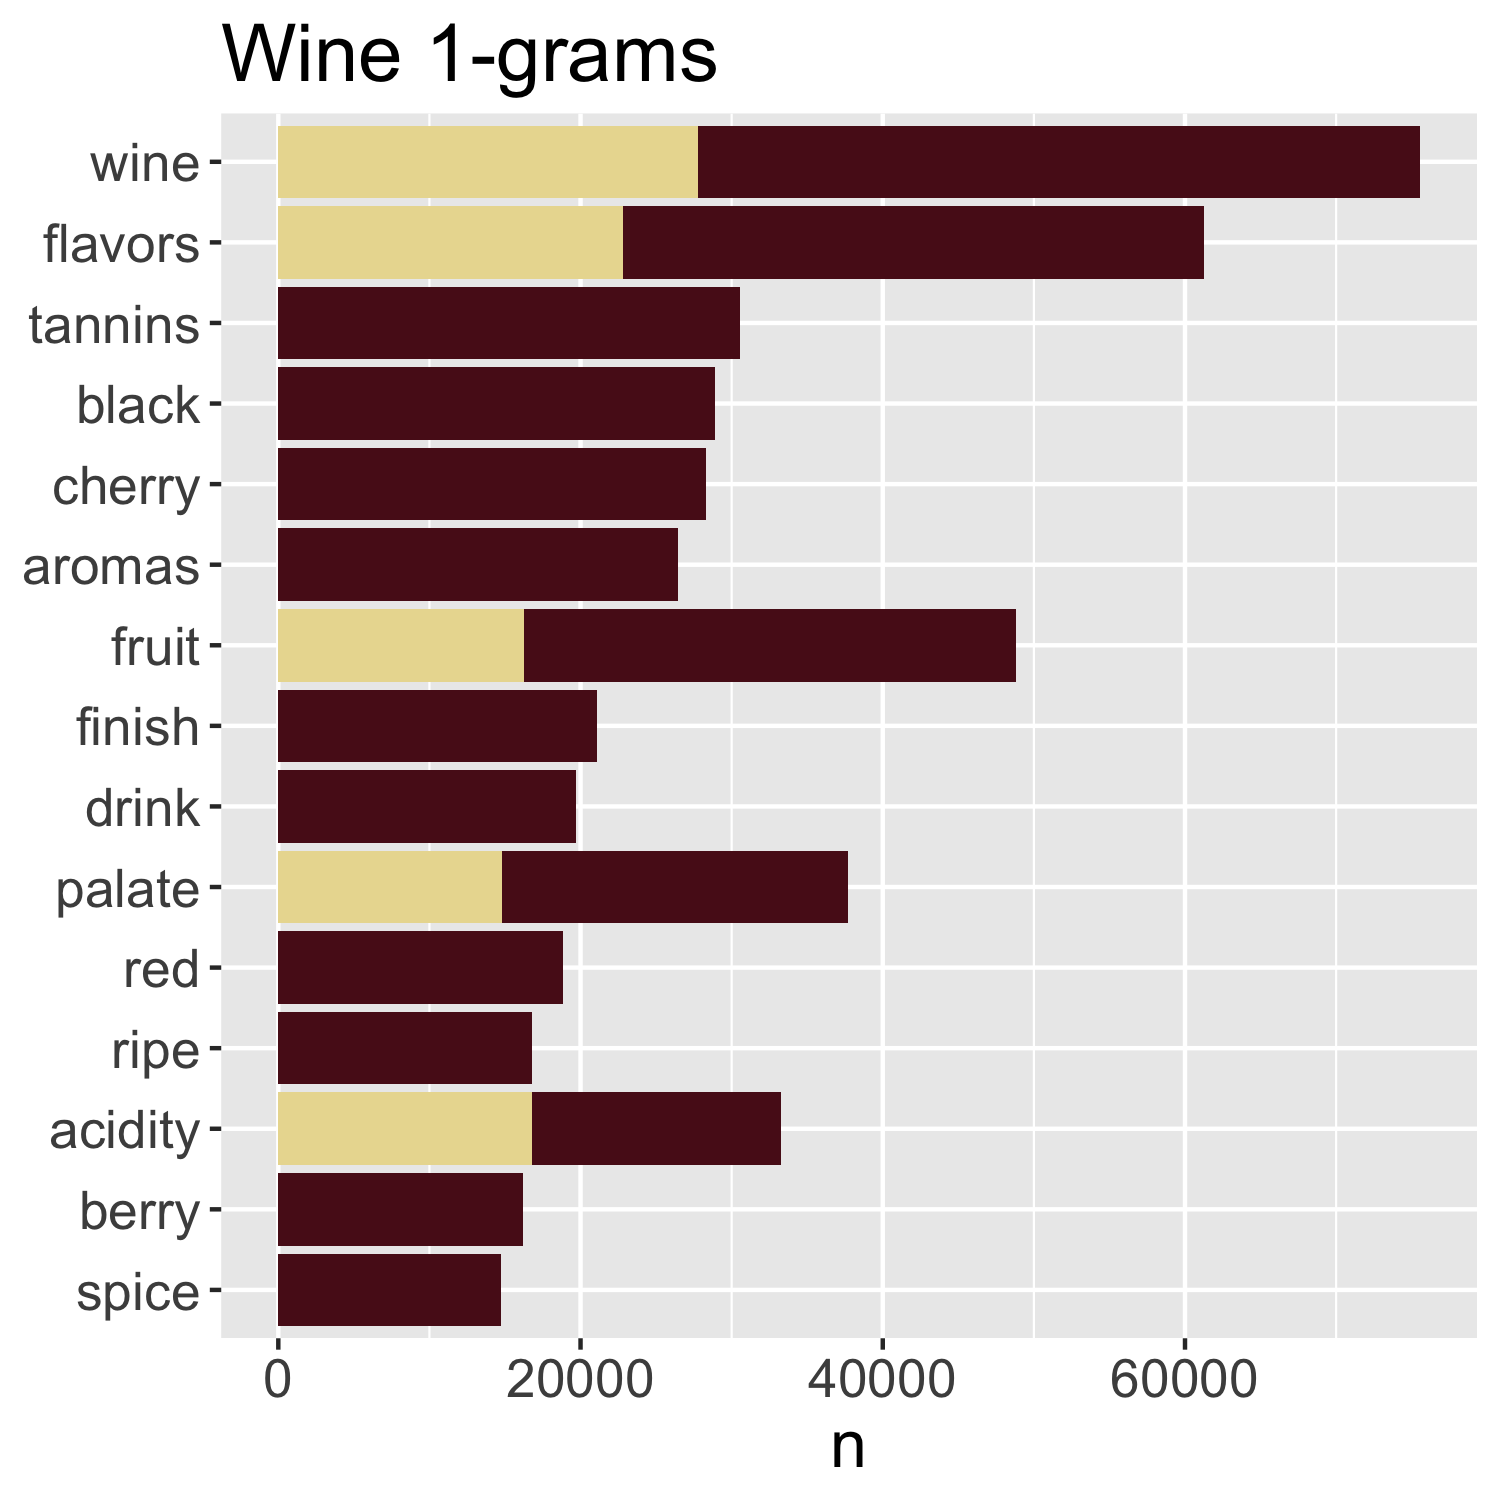
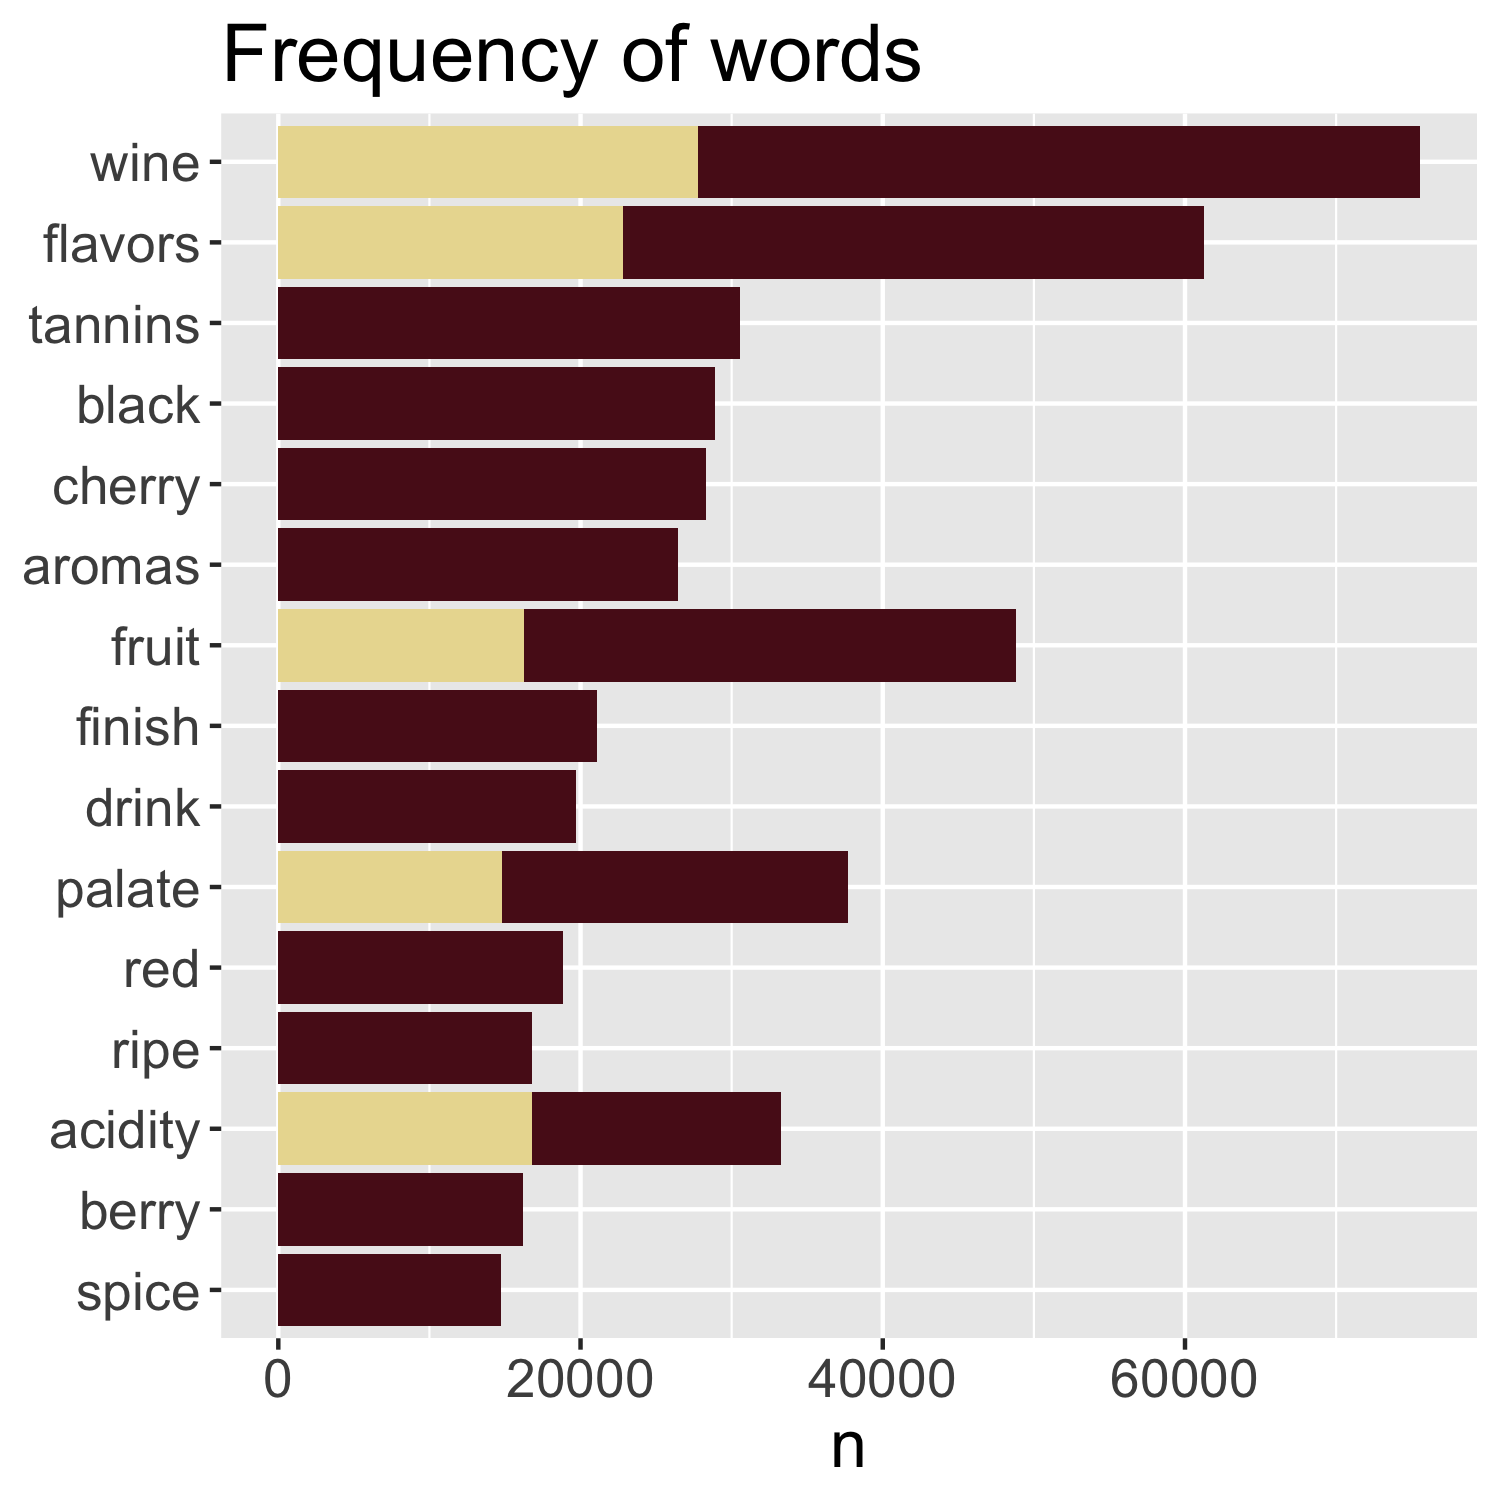
Added 2-gram analysism cleaned up 1-gram analysis

Changed region(s): [[0.1533, 0.0, 0.6133, 0.0613]]

diff --git a/2019-04-10_melburn-wine.html b/2019-04-10_melburn-wine.html
@@ -180,19 +180,20 @@ wine_words &lt;- wine %&gt;%
   ) %&gt;% 
   anti_join(
     tidytext::stop_words, 
-    by = "word") 
-```
-
-
-```r
-wine_words %&gt;% 
-  select(index, word) %&gt;% 
-  head(10) %&gt;% 
-  output_table
+    by = "word"
+  ) 
 ```
 ]
 
 .pull-right[
+
+```r
+wine_words %&gt;% 
+  select(index, word) %&gt;% 
+  head %&gt;% 
+  output_table
+```
+
 &lt;table class="table" style="width: auto !important; margin-left: auto; margin-right: auto;"&gt;
  &lt;thead&gt;
   &lt;tr&gt;
@@ -225,22 +226,6 @@ wine_words %&gt;%
    &lt;td style="text-align:right;"&gt; 0 &lt;/td&gt;
    &lt;td style="text-align:left;"&gt; brimstone &lt;/td&gt;
   &lt;/tr&gt;
-  &lt;tr&gt;
-   &lt;td style="text-align:right;"&gt; 0 &lt;/td&gt;
-   &lt;td style="text-align:left;"&gt; dried &lt;/td&gt;
-  &lt;/tr&gt;
-  &lt;tr&gt;
-   &lt;td style="text-align:right;"&gt; 0 &lt;/td&gt;
-   &lt;td style="text-align:left;"&gt; herb &lt;/td&gt;
-  &lt;/tr&gt;
-  &lt;tr&gt;
-   &lt;td style="text-align:right;"&gt; 0 &lt;/td&gt;
-   &lt;td style="text-align:left;"&gt; palate &lt;/td&gt;
-  &lt;/tr&gt;
-  &lt;tr&gt;
-   &lt;td style="text-align:right;"&gt; 0 &lt;/td&gt;
-   &lt;td style="text-align:left;"&gt; overly &lt;/td&gt;
-  &lt;/tr&gt;
 &lt;/tbody&gt;
 &lt;/table&gt;
 ]
@@ -260,10 +245,10 @@ wine_words %&gt;%
   scale_fill_manual(
     values = wine_plot_colours
   ) +
-  ggtitle("Wine 1-grams") + 
   xlab(NULL) +
   theme(text = element_text(size = 16)) +
   coord_flip() +
+  ggtitle("Frequency of words") +
   theme(legend.position="none")
 ```
 ]
@@ -294,6 +279,119 @@ wine_words %&gt;%
 
 .pull-right[
 &lt;img src="2019-04-10_melburn-wine_files/figure-html/word_cloud_out-1.png" width="500" height="500" /&gt;
+]
+
+---
+## 2-gram frequency
+
+.pull-left[
+
+```r
+wine_2grams &lt;- wine %&gt;%  
+  tidytext::unnest_tokens(
+    ngram, 
+    description, 
+    token = "ngrams", 
+    n = 2
+  ) %&gt;% 
+  separate(
+    ngram, 
+    c("word1", "word2"), 
+    sep = " ", 
+    remove = FALSE
+  ) %&gt;% 
+  filter_at(
+    vars(starts_with("word")), 
+    all_vars(
+      !(. %in% tidytext::stop_words$word)
+    )
+  )
+```
+]
+
+.pull-right[
+
+```r
+wine_2grams %&gt;% 
+  select(index, ngram, word1, word2) %&gt;% 
+  head %&gt;% 
+  output_table
+```
+
+&lt;table class="table" style="width: auto !important; margin-left: auto; margin-right: auto;"&gt;
+ &lt;thead&gt;
+  &lt;tr&gt;
+   &lt;th style="text-align:right;"&gt; index &lt;/th&gt;
+   &lt;th style="text-align:left;"&gt; ngram &lt;/th&gt;
+   &lt;th style="text-align:left;"&gt; word1 &lt;/th&gt;
+   &lt;th style="text-align:left;"&gt; word2 &lt;/th&gt;
+  &lt;/tr&gt;
+ &lt;/thead&gt;
+&lt;tbody&gt;
+  &lt;tr&gt;
+   &lt;td style="text-align:right;"&gt; 0 &lt;/td&gt;
+   &lt;td style="text-align:left;"&gt; aromas include &lt;/td&gt;
+   &lt;td style="text-align:left;"&gt; aromas &lt;/td&gt;
+   &lt;td style="text-align:left;"&gt; include &lt;/td&gt;
+  &lt;/tr&gt;
+  &lt;tr&gt;
+   &lt;td style="text-align:right;"&gt; 0 &lt;/td&gt;
+   &lt;td style="text-align:left;"&gt; include tropical &lt;/td&gt;
+   &lt;td style="text-align:left;"&gt; include &lt;/td&gt;
+   &lt;td style="text-align:left;"&gt; tropical &lt;/td&gt;
+  &lt;/tr&gt;
+  &lt;tr&gt;
+   &lt;td style="text-align:right;"&gt; 0 &lt;/td&gt;
+   &lt;td style="text-align:left;"&gt; tropical fruit &lt;/td&gt;
+   &lt;td style="text-align:left;"&gt; tropical &lt;/td&gt;
+   &lt;td style="text-align:left;"&gt; fruit &lt;/td&gt;
+  &lt;/tr&gt;
+  &lt;tr&gt;
+   &lt;td style="text-align:right;"&gt; 0 &lt;/td&gt;
+   &lt;td style="text-align:left;"&gt; fruit broom &lt;/td&gt;
+   &lt;td style="text-align:left;"&gt; fruit &lt;/td&gt;
+   &lt;td style="text-align:left;"&gt; broom &lt;/td&gt;
+  &lt;/tr&gt;
+  &lt;tr&gt;
+   &lt;td style="text-align:right;"&gt; 0 &lt;/td&gt;
+   &lt;td style="text-align:left;"&gt; broom brimstone &lt;/td&gt;
+   &lt;td style="text-align:left;"&gt; broom &lt;/td&gt;
+   &lt;td style="text-align:left;"&gt; brimstone &lt;/td&gt;
+  &lt;/tr&gt;
+  &lt;tr&gt;
+   &lt;td style="text-align:right;"&gt; 0 &lt;/td&gt;
+   &lt;td style="text-align:left;"&gt; dried herb &lt;/td&gt;
+   &lt;td style="text-align:left;"&gt; dried &lt;/td&gt;
+   &lt;td style="text-align:left;"&gt; herb &lt;/td&gt;
+  &lt;/tr&gt;
+&lt;/tbody&gt;
+&lt;/table&gt;
+]
+
+---
+## 2-gram frequency
+
+.pull-left[
+
+```r
+wine_2grams %&gt;%
+  count(ngram, colour, sort = TRUE) %&gt;%
+  head(20) %&gt;%
+  mutate(ngram = reorder(ngram, n)) %&gt;%
+  ggplot(aes(ngram, n, fill = colour)) +
+  geom_col() +
+  scale_fill_manual(
+    values = wine_plot_colours
+  ) +
+  xlab(NULL) +
+  coord_flip() + 
+  ggtitle("Frequency of 2-grams") +
+  theme(legend.position="none")
+```
+]
+
+.pull-right[
+&lt;img src="2019-04-10_melburn-wine_files/figure-html/wine_2grams_plot_out-1.png" width="500" height="500" /&gt;
 ]
     </textarea>
 <style data-target="print-only">@media screen {.remark-slide-container{display:block;}.remark-slide-scaler{box-shadow:none;}}</style>
